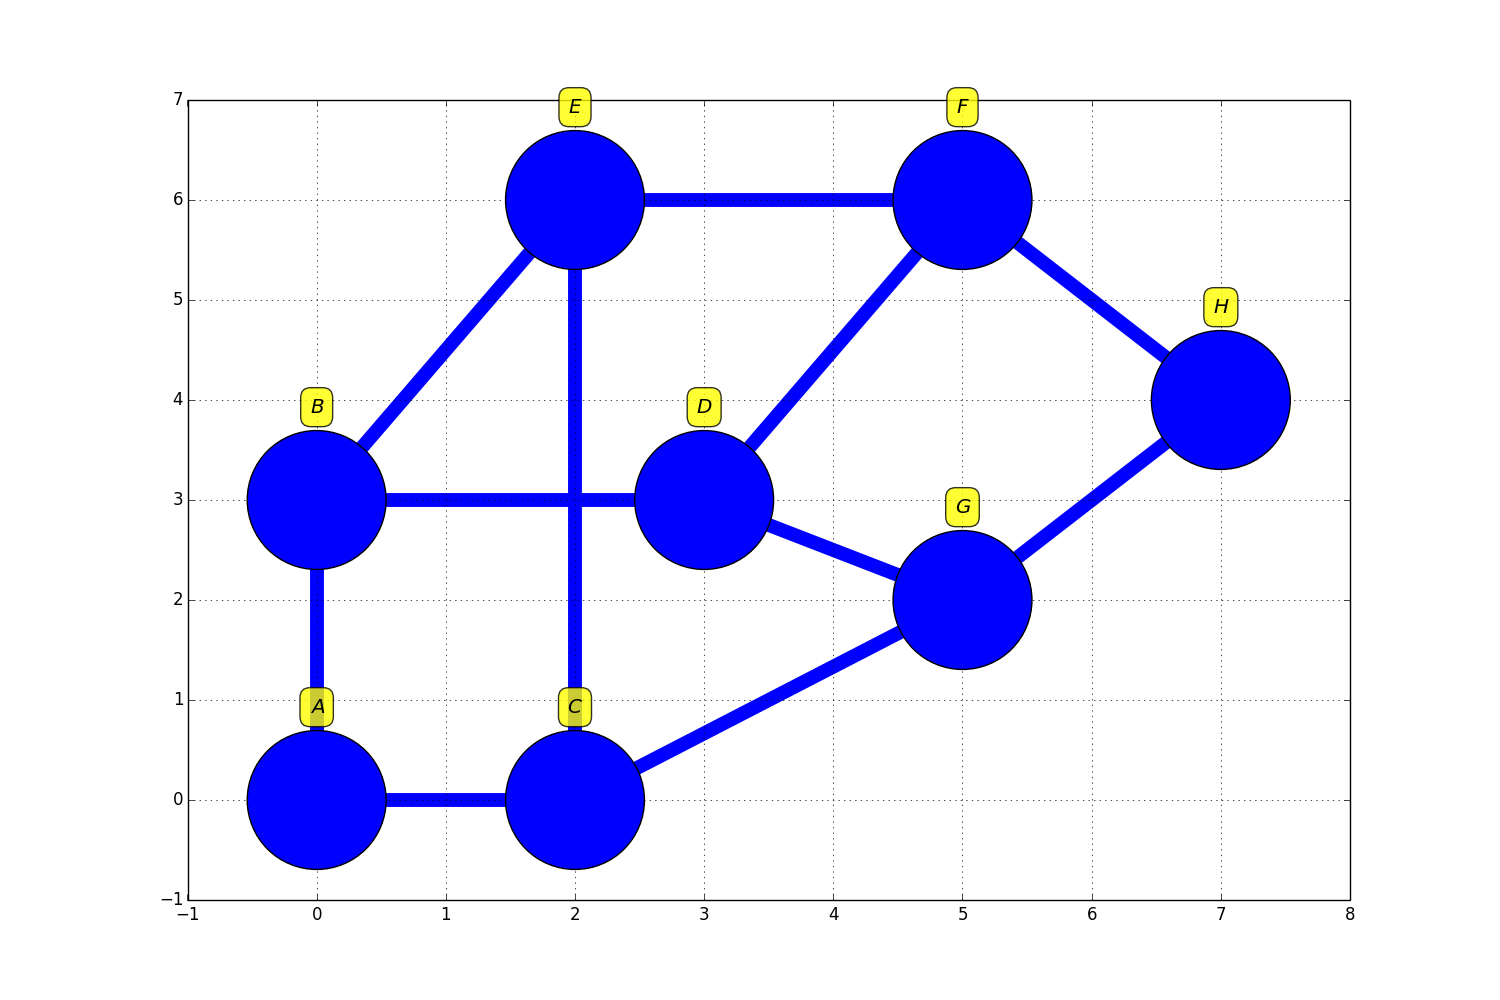
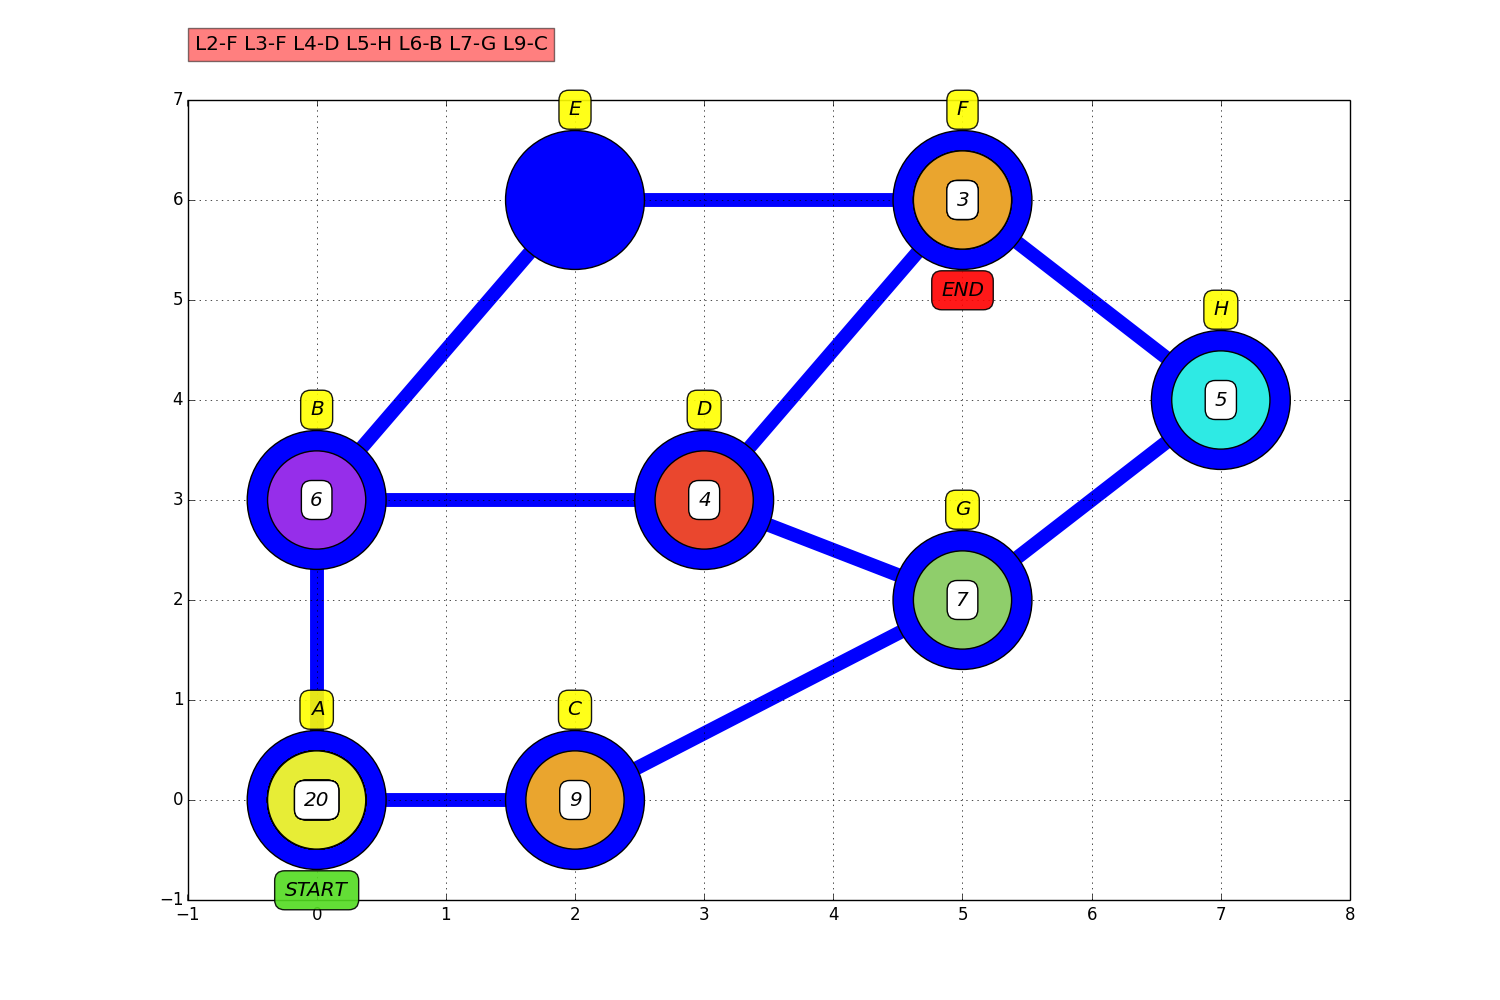
animated

diff --git a/42_lem-in/visual/drawer.py b/42_lem-in/visual/drawer.py
@@ -29,38 +29,40 @@ def draw_links(farm):
 
 
 def draw_ants(farm):
-	for ant in reversed(farm.ants):
-		plt.scatter(ant.x, ant.y, s=5000, zorder=3, c='red')
+	colors = ['#8fce6b', '#e7ed36', '#eaa52e', '#ea472e', '#2eeae4', '#962eea']
+	i = 0
+	l = len(colors)
+	for ant in farm.ants:
+		plt.scatter(ant.x, ant.y, s=5000, zorder=3, c=colors[i % l])
 		draw_annotation(ant.name, ant.x, ant.y, vpos=0, bcolor='white', al=1, z=0)
+		i += 1
 
-def init(farm):
-	draw_rooms(farm)
-	draw_links(farm)
-	draw_ants(farm)
+def init():
+	draw_rooms(gfarm)
+	draw_links(gfarm)
+	draw_ants(gfarm)
 
 def animate(moves):
-	farm.move_ants(moves)
-	plt.cla()
-	draw_rooms(farm)
-	draw_links(farm)
-	draw_ants(farm)
+	gfarm.move_ants(moves)
+	plt.clf()
+	plt.grid(True, zorder=0)
+	f = plt.gcf()
+	f.text(0.13, 0.95, moves, size='large',
+        bbox={'facecolor':'red', 'alpha':0.5, 'pad':10})
+	draw_rooms(gfarm)
+	draw_links(gfarm)
+	draw_ants(gfarm)
 
-def draw_graph(farm, moves):
+
+def draw_graph(farm, moves, interval):
+	global gfarm
+	gfarm = farm
 	fig, ax = plt.subplots(figsize=(15, 10))
 	fig.canvas.set_window_title('lem-in mhaiduk')
 	ax.grid(True, zorder=0)
+	init()
 
-	ax.set_xlabel('$x$', fontsize=20)
-	ax.set_ylabel('$y$', fontsize=20)
-	init(farm)
-
-	anim = animation.FuncAnimation(fig, animate, moves, init_func=init,
-									blit=False, repeat=False, interval=100)
+	anim = animation.FuncAnimation(fig, animate, frames=moves, init_func=init,
+									blit=False, repeat=False, interval=interval)
 
 	plt.show()
-
-
-if __name__ == "__main__":
-	rooms = {'start': [0, 2], 'bathroom': [2, 3], 'end': [4, 2], 'hall': [1, 1], 'kitchen': [3, 1]}
-	links = [('zero', 'two'), ('zero', 'three'), ('two', 'three'), ('three', 'one'), ('two', 'one')]
-	draw_graph(rooms, links)

diff --git a/42_lem-in/visual/visual.py b/42_lem-in/visual/visual.py
@@ -4,8 +4,6 @@ import re
 import drawer
 from classes import Ant, Room, Farm
 
-
-
 def read_data():
 	
 	farm = Farm()
@@ -32,23 +30,21 @@ def read_data():
 			moves.append(line.strip())
 	return(farm, moves)
 
+def check_interval(interval):
+	try:
+		interval = int(interval)
+	except:
+		print ("Error: invalid interval value")
+		exit (1)
+	if (interval <= 0):
+		print ("Error: invalid interval value")
+		exit (1)
+
 def main():
 	farm, moves = read_data()
-	# if (len(rooms) == 0):
-	# 	print ("Error")
-	# 	exit (1)
+	interval = sys.argv[1]
+	check_interval(interval)
 	farm.create_ants()
-	drawer.draw_graph(farm, moves)
-	print (farm.ants)
-	print(farm.room_index)
-	for room in farm.rooms:
-		print ("name: {}\nx: {}\ny: {}\n".format(room.name, room.x, room.y))
-	print (farm.links)
-	print (moves)
-	print(farm.start_room, farm.end_room)
-
-	for a in farm.ants:
-		print ("name: {}\nx: {}\ny: {}\n".format(a.name, a.x, a.y))
-
+	drawer.draw_graph(farm, moves, int(sys.argv[1]))
 if __name__ == "__main__":
 	main()

diff --git a/42_lem-in/visual/classes.py b/42_lem-in/visual/classes.py
@@ -46,12 +46,12 @@ class Farm:
                         self.rooms[self.start_room].y)
             self.ants.append(ant)
     
-    def move_ants(moves):
+    def move_ants(self, moves):
         moves = moves.split(' ')
         for move in moves:
             move = move.strip('L')
             move = move.split('-')
             i = int(move[0]) - 1
             room_name = move[1]
-            self.ants[i].x, self.ants[i].y = get_xy_by_name(room_name) 
+            self.ants[i].x, self.ants[i].y = self.get_xy_by_name(room_name) 
 

diff --git a/42_lem-in/README.md b/42_lem-in/README.md
@@ -42,7 +42,7 @@ L1-3 means: <code>ant number 1 goes to the room number 3</code>.
 Only one ant can be at the room in the same time.
 
 To visualize graph:
-./run.sh [map file]
+./run.sh [map file] [interval in ms]
 
 _python2.x and matplotlib required_
 
